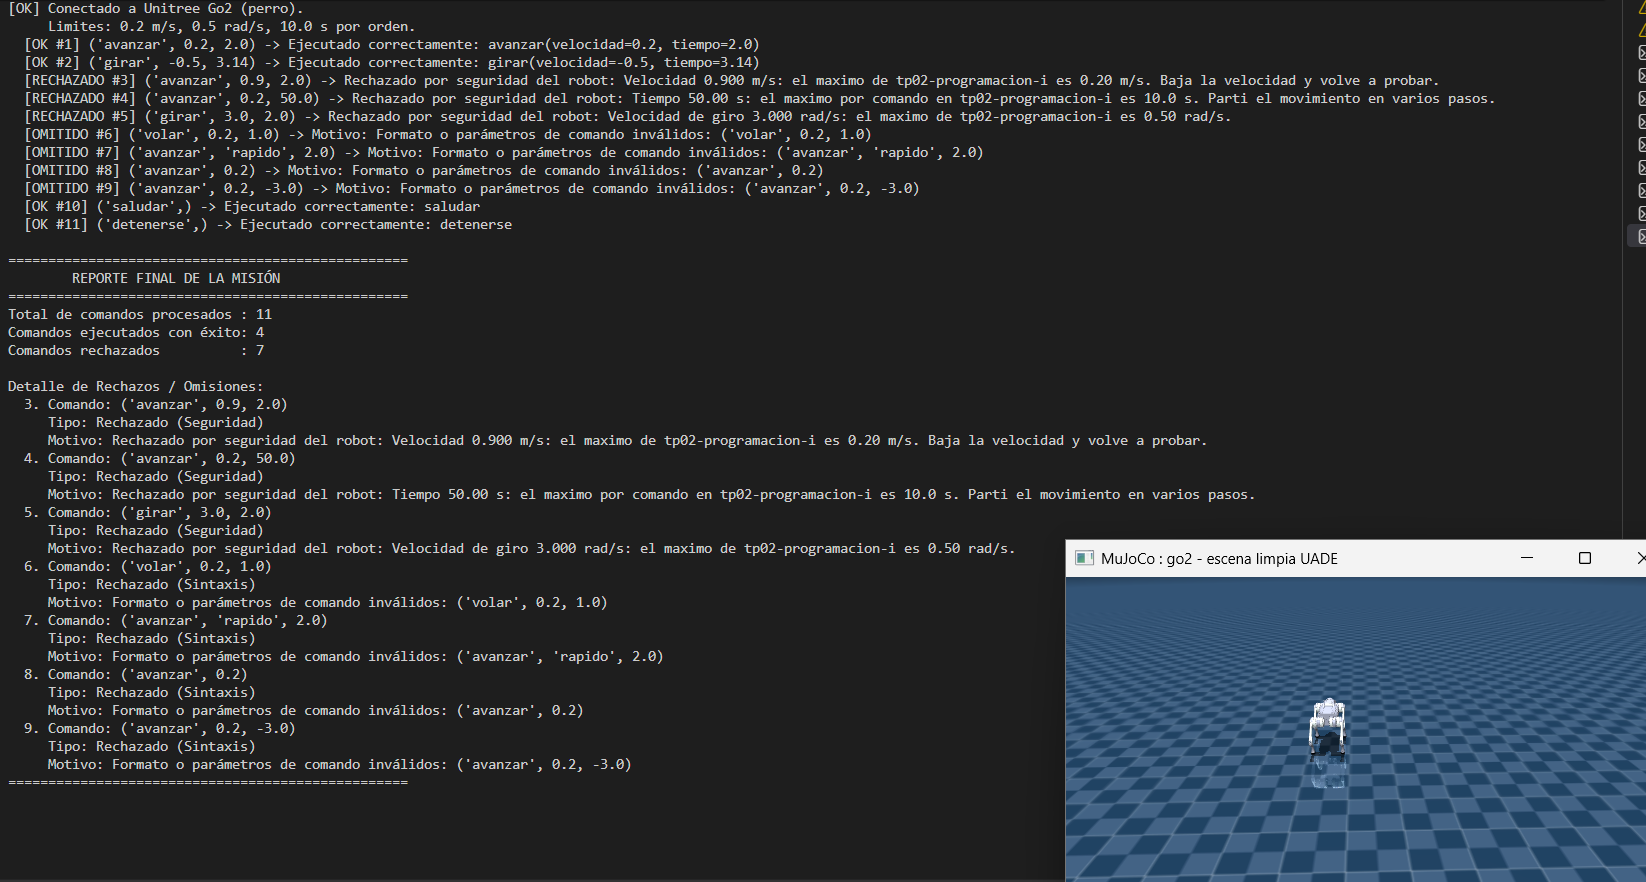
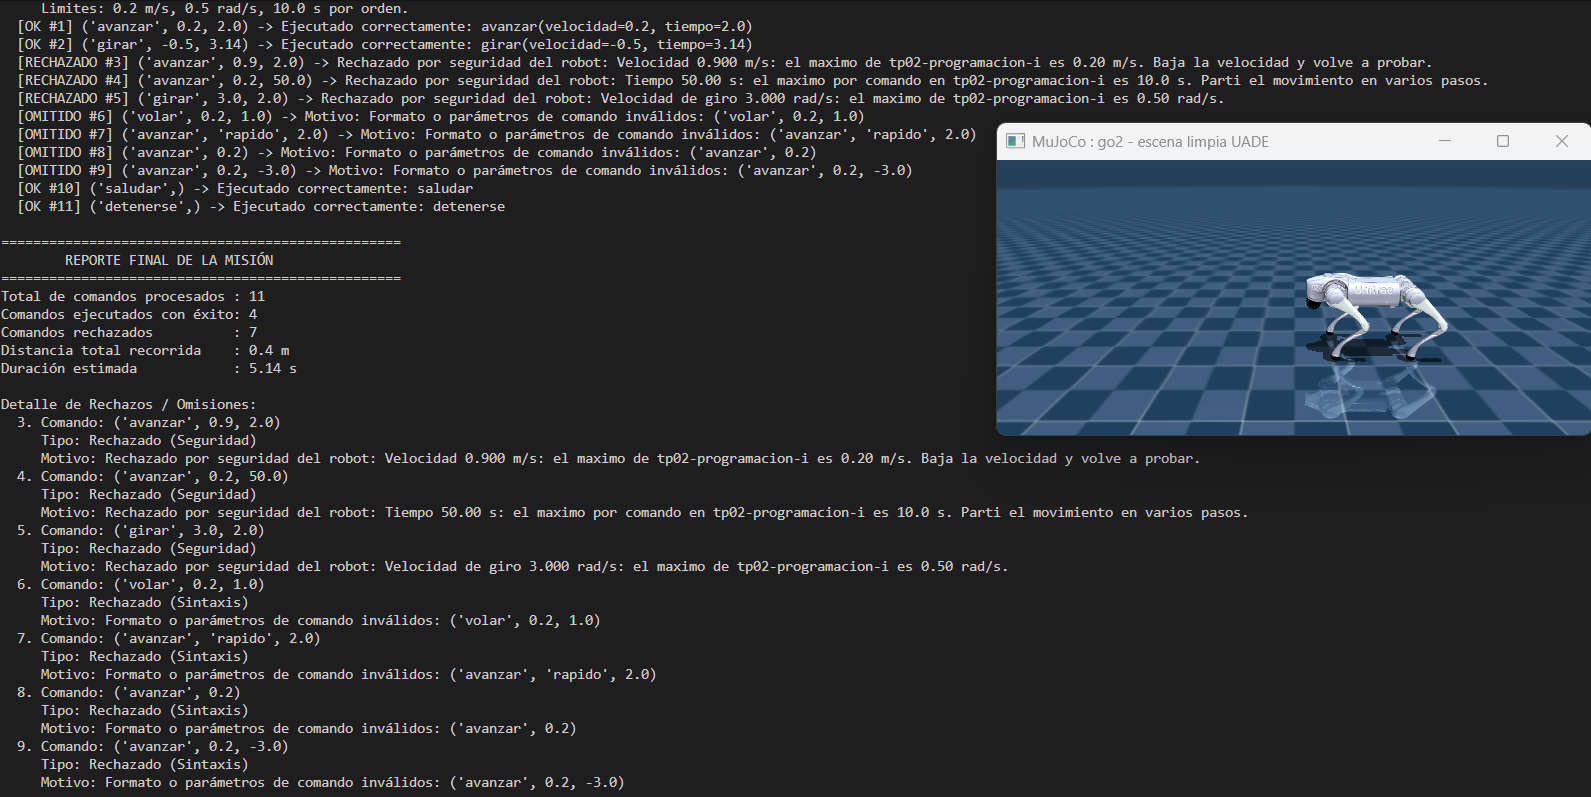
Actualizo codigo y archivos de trabajo

diff --git a/codigo/tp02_veiga_almendros.py b/codigo/tp02_veiga_almendros.py
@@ -168,12 +168,26 @@ def generar_reporte(historial):
     ejecutados = sum(1 for registro in historial if registro["estado"] == "Ejecutado")
     rechazados = len(historial) - ejecutados
 
+    distancia_total = 0.0
+    duracion_total = 0.0
+    for registro in historial:
+        if registro["estado"] != "Ejecutado":
+            continue
+        comando = registro["comando"]
+        if comando[0] == "avanzar":
+            distancia_total += abs(comando[1]) * comando[2]
+            duracion_total += comando[2]
+        elif comando[0] == "girar":
+            duracion_total += comando[2]
+
     print("\n" + "=" * 50)
     print("        REPORTE FINAL DE LA MISIÓN")
     print("=" * 50)
     print(f"Total de comandos procesados : {len(historial)}")
     print(f"Comandos ejecutados con éxito: {ejecutados}")
     print(f"Comandos rechazados          : {rechazados}")
+    print(f"Distancia total recorrida    : {round(distancia_total, 2)} m")
+    print(f"Duración estimada            : {round(duracion_total, 2)} s")
 
     if rechazados > 0:
         print("\nDetalle de Rechazos / Omisiones:")

diff --git a/BITACORA.md b/BITACORA.md
@@ -1,6 +1,24 @@
 # Bitácora de Desarrollo - TP02 Robot Unitree Go2
 
-## Etapa 1: Caracterización del Entorno
+**Integrantes:** Juan Manuel Veiga Lucien y Manuela Almendros · **Comisión:** 584524
+**Código:** `mi_tp02.py` (entregado como `tp02_veiga_almendros.py`)
+
+## Índice
+
+1. Caracterización del entorno
+2. Análisis previo de la documentación
+3. Verificación del entorno
+4. Puesta en marcha del gemelo digital
+5. Arquitectura del laboratorio
+6. Primer programa: `MISION_BASICA`
+7. `MISION_CON_ERRORES`
+8. `MISION_CUADRADO`
+9. `MISION_PROPIA`
+10. Resumen de resultados
+
+---
+
+## 1. Caracterización del entorno
 
 | Elemento | Información obtenida |
 |---|---|
@@ -19,13 +37,13 @@
 **Comandos ejecutados:**
 `systeminfo | findstr /B /C:"OS Name" /C:"OS Version" /C:"System Type"`, `py -3 --version`, `python --version`, `pip --version`, `git --version`, `py -3 -c "import mujoco; print(mujoco.__version__)"` (salida: `3.14.0`).
 
-**Evidencia:** `evidencias/01_entorno/captura_entorno.png`
+**Evidencia:** `evidencias/01_entorno/captura_entorno.png`, `evidencias/01_entorno/captura_vcredist.png`
 
 ---
 
-## Análisis previo de la documentación (sección 3 del orientador)
+## 2. Análisis previo de la documentación
 
-Fuentes leídas: `INSTALACION.md` y `LEEME_ESTUDIANTE.md` de `05LaboratoriosTPs/TP02_Programacion_I`.
+Fuentes leídas: `INSTALACION.md` y `LEEME_ESTUDIANTE.md` de `05LaboratoriosTPs/TP02_Programacion_I` (sección 3 del orientador).
 
 **a) ¿Qué herramientas necesita el TP?**
 - Python 3.10 o superior (ejecuta todo).
@@ -40,7 +58,7 @@ Python 3.10 o superior. En este equipo se usa Python 3.14.4, que cumple el requi
 Python 3.14.4, pip 26.0.1 y Git 2.55.0 ya estaban disponibles; el IDE es Visual Studio Code. MuJoCo no estaba instalado y se agregó durante el TP. Los modelos del robot vienen con la carpeta del laboratorio.
 
 **d) ¿Qué componentes del repositorio oficial de Unitree no son necesarios?**
-- El repo oficial completo (299 MB) y los otros ocho robots: el laboratorio incluye solo G1 y Go2, recortados.
+El repo oficial completo (299 MB) y los otros ocho robots: el laboratorio incluye solo G1 y Go2, recortados.
 
 **e) Diferencias entre el TP en PDF y la versión actual del repositorio**
 - Los movimientos se expresan con **velocidad y tiempo**: `robot.avanzar(velocidad, tiempo)` (m/s, s) y `robot.girar(velocidad, tiempo)` (rad/s, s). Antes se usaba distancia/velocidad y ángulo/sentido.
@@ -52,7 +70,7 @@ Python 3.14.4, pip 26.0.1 y Git 2.55.0 ya estaban disponibles; el IDE es Visual 
 
 ---
 
-## Etapa 4: Verificación del entorno
+## 3. Verificación del entorno
 
 **Comando ejecutado** (desde `TP02_Programacion_I/entorno`):
 `python -m sim --solo-revisar`
@@ -65,7 +83,7 @@ Python 3.14.4, pip 26.0.1 y Git 2.55.0 ya estaban disponibles; el IDE es Visual 
 
     Todo listo.
 
-**Resultado:** las tres verificaciones dieron `[OK]`, sin elementos faltantes. Niveles 1 a 4 alcanzados (Python reconocido, MuJoCo importado, modelos Go2 disponibles, verificación correcta).
+**Resultado:** las tres verificaciones dieron `[OK]`, sin elementos faltantes.
 
 **Incidente previo:** al intentar entrar a la carpeta del TP con `cd` fallamos por los espacios de la ruta. Ver Problema N.º 1 en `PROBLEMAS.md`.
 
@@ -73,7 +91,7 @@ Python 3.14.4, pip 26.0.1 y Git 2.55.0 ya estaban disponibles; el IDE es Visual 
 
 ---
 
-## Etapa 5: Puesta en marcha del gemelo digital
+## 4. Puesta en marcha del gemelo digital
 
 **Comando ejecutado** (desde `TP02_Programacion_I`): `.\INICIAR_SIMULADOR.bat`
 
@@ -91,15 +109,15 @@ Python 3.14.4, pip 26.0.1 y Git 2.55.0 ya estaban disponibles; el IDE es Visual 
 - Escena: `go2/scene_uade.xml`
 - Materia: `tp02-programacion-i`
 - Límites: 0.2 m/s | 0.5 rad/s | 10.0 s por orden
-- Transporte: local, `[LOCAL] Escuchando en 127.0.0.1:8765`
+- Transporte: local
 
 **Resultado:** simulador iniciado sin errores. Se abrió la ventana "MuJoCo : go2 - escena limpia UADE" y el robot Unitree Go2 quedó visible sobre el piso de la escena.
 
-**Evidencia:** `evidencias/05_gemelo_digital/`
+**Evidencia:** `evidencias/05_gemelo_digital/` (`01_seleccion_robot.png`, `02_terminal_inicio.png`, `03_ventana_mujoco.png`)
 
 ---
 
-## Arquitectura del laboratorio
+## 5. Arquitectura del laboratorio
 
     mi_tp02.py
      |
@@ -107,20 +125,21 @@ Python 3.14.4, pip 26.0.1 y Git 2.55.0 ya estaban disponibles; el IDE es Visual 
      v
     robot.py (puente: no se modifica)
      |
-     | socket local 127.0.0.1:8765
+     | 
      v
     Gemelo digital: MuJoCo + modelo Unitree Go2
 
-- **`mi_tp02.py`** contiene mi controlador: valida cada comando, lo ejecuta y arma el reporte. No sabe nada de física ni de MuJoCo; solo llama a métodos del objeto `Robot`.
+- **`mi_tp02.py`** contiene nuestro controlador: valida cada comando, lo ejecuta y arma el reporte. No sabe nada de física ni de MuJoCo; solo llama a métodos del objeto `Robot`.
 - **`robot.py`** es el puente. Traduce cada llamada (por ejemplo `avanzar(velocidad, tiempo)`) en un mensaje que envía por un socket local. Además aplica los límites de seguridad (0.2 m/s, 0.5 rad/s, 10 s) y lanza `ErrorDeSeguridad` si se superan. No se modifica.
-- **Simulador (MuJoCo + Go2):** escucha en `127.0.0.1:8765`, recibe los mensajes y mueve el modelo del robot en la ventana 3D.
+- **Simulador (MuJoCo + Go2):** recibe los mensajes y mueve el modelo del robot en la ventana 3D.
+
+**Estructura del controlador (diseño Top-Down):** `main()` llama a `ejecutar_mision()` y `generar_reporte()`; `ejecutar_mision()` llama, por cada comando, a `comando_es_valido()` y `ejecutar_comando()`.
 
 ---
 
-## Etapa 6: Primer programa contra el gemelo digital
+## 6. Primer programa: `MISION_BASICA`
 
-**Comando ejecutado** 
-`python mi_desarrollo/mi_tp02.py`
+**Comando ejecutado:** `python mi_desarrollo/mi_tp02.py`
 
 **Salida obtenida:**
 
@@ -130,49 +149,54 @@ Python 3.14.4, pip 26.0.1 y Git 2.55.0 ya estaban disponibles; el IDE es Visual 
       [OK #2] ('girar', -0.5, 3.14) -> Ejecutado correctamente
       [OK #3] ('avanzar', 0.2, 2.0) -> Ejecutado correctamente
       [OK #4] ('detenerse',) -> Ejecutado correctamente
+
     Total de comandos procesados : 4
     Comandos ejecutados con éxito: 4
     Comandos rechazados          : 0
+    Distancia total recorrida    : 0.8 m
+    Duración estimada            : 7.14 s
+
     [OK] Desconectado.
 
 **Movimiento observado:** el Go2 avanzó, giró a la derecha y volvió a avanzar, quedando desplazado y rotado respecto de su posición inicial en la ventana de MuJoCo.
 
-**Resultado:** conexión correcta, `MISION_BASICA` ejecutada sin rechazos y reporte generado.
+**Resultado:** conexión correcta, `MISION_BASICA` ejecutada sin rechazos y reporte generado. 4 ejecutados, 0 rechazados.
 
 **Evidencia:** `evidencias/06_misiones/01_mision_basica.png`
 
 ---
 
-## Etapa 7: MISION_CON_ERRORES
+## 7. `MISION_CON_ERRORES`
 
 **Misión:** `MISION_CON_ERRORES` (11 comandos), con el simulador abierto.
 
 **Resultado:**
-- 4 ejecutados: #1, #2, #10, #11.
-- 3 rechazados por seguridad del robot (`ErrorDeSeguridad`): #3 (0.9 m/s), #4 (50 s), #5 (3.0 rad/s).
-- 4 omitidos por validación previa: #6 (comando `volar`), #7 (velocidad no numérica), #8 (falta el tiempo), #9 (tiempo negativo).
+- **4 ejecutados:** #1, #2, #10, #11.
+- **3 rechazados por seguridad del robot** (`ErrorDeSeguridad`): #3 (0.9 m/s), #4 (50 s), #5 (3.0 rad/s).
+- **4 omitidos por validación previa (sintaxis):** #6 (comando `volar`), #7 (velocidad no numérica), #8 (falta el tiempo), #9 (tiempo negativo).
+- **Distancia total recorrida:** 0.4 m. **Duración estimada:** 5.14 s.
 
-**Verificación:** el programa detectó, rechazó, registró y continuó con el resto de la misión. El reporte final se generó. Nivel 9 alcanzado.
+**Verificación:** el programa detectó, rechazó, registró y continuó con el resto de la misión. El reporte final se generó.
 
 **Evidencia:** `evidencias/06_misiones/02_mision_con_errores.png`
 
 ---
 
-## Etapa 8: MISION_CUADRADO
+## 8. `MISION_CUADRADO`
 
 **Misión:** `MISION_CUADRADO` (9 comandos): 4 veces `avanzar(0.2 m/s, 2.0 s)` y `girar(-0.5 rad/s, 3.14 s)`, más `detenerse`.
 
 **Cálculo:** cada lado recorre 0.2 × 2.0 = 0.4 m; cada giro es 0.5 × 3.14 ≈ 1.57 rad (90° a la derecha). Cuatro giros suman 360°.
 
-**Resultado:** 9 ejecutados, 0 rechazados. Reporte final generado.
+**Resultado:** 9 ejecutados, 0 rechazados. Distancia total recorrida: 1.6 m (4 × 0.4 m). Duración estimada: 20.56 s. Reporte final generado.
 
-**Observación:** el Go2 terminó en la zona de partida, con la orientación original (de frente a la cámara), consistente con un recorrido cuadrado cerrado.
+**Observación:** el Go2 terminó en la zona de partida, con la orientación original, consistente con un recorrido cuadrado cerrado.
 
 **Evidencia:** `evidencias/06_misiones/03_mision_cuadrado.png`
 
 ---
 
-## Etapa 9: MISION_PROPIA
+## 9. `MISION_PROPIA`
 
 **Misión:** `MISION_PROPIA` (10 comandos), diseñada por nosotros. Es un zigzag con desvío lateral que incluye 3 comandos inválidos a propósito:
 
@@ -189,11 +213,21 @@ Python 3.14.4, pip 26.0.1 y Git 2.55.0 ya estaban disponibles; el IDE es Visual 
 | 9 | `saludar` | válido | saluda |
 | 10 | `detenerse` | válido | frena |
 
-**Diseño:** el robot se aparta del rumbo original hacia la derecha, avanza el tramo más largo, se endereza y termina avanzando y saludando. Los comandos válidos respetan los límites (≤ 0.2 m/s, ≤ 0.5 rad/s, ≤ 10 s). Los inválidos cubren los dos tipos de rechazo: validación previa y `ErrorDeSeguridad`.
+**Diseño:** el robot se aparta del rumbo original hacia la derecha, avanza el tramo más largo, se endereza y termina avanzando y saludando. Los comandos válidos respetan los límites (≤ 0.2 m/s, ≤ 0.5 rad/s, ≤ 10 s). Los inválidos cubren los dos tipos de rechazo: validación previa (#3 y #8) y `ErrorDeSeguridad` (#6).
 
-**Resultado (COMPLETAR con lo que muestre la captura):** 7 ejecutados, 3 rechazados. Reporte final generado.
+**Resultado:** 7 ejecutados y 3 rechazados (2 por sintaxis y 1 por seguridad). Distancia total recorrida: 1.2 m (0.30 + 0.60 + 0.30). Duración estimada: 10.14 s. Reporte final generado.
 
-**Observación:** en la ventana, el Go2 quedó desplazado respecto de su posición inicial. No se midió la distancia exacta.
+**Observación:** en la ventana, el Go2 quedó desplazado respecto de su posición inicial.
 
 **Evidencia:** `evidencias/06_misiones/04_mision_propia.png`
 
+---
+
+## 10. Resumen de resultados
+
+| Misión | Comandos | Ejecutados | Rechazados (sintaxis / seguridad) | Distancia | Duración |
+|---|---|---|---|---|---|
+| `MISION_BASICA` | 4 | 4 | 0 (0 / 0) | 0.8 m | 7.14 s |
+| `MISION_CON_ERRORES` | 11 | 4 | 7 (4 / 3) | 0.4 m | 5.14 s |
+| `MISION_CUADRADO` | 9 | 9 | 0 (0 / 0) | 1.6 m | 20.56 s |
+| `MISION_PROPIA` | 10 | 7 | 3 (2 / 1) | 1.2 m | 10.14 s |

diff --git a/CONCLUSIONES.md b/CONCLUSIONES.md
@@ -16,7 +16,7 @@ El error del `cd`. El mensaje no decía que la carpeta no existiera, por lo que 
 Encerrar la ruta entre comillas dobles. Las comillas indican a PowerShell que toda la ruta es un único argumento. Después de aplicarla se pudo ejecutar la verificación y el simulador.
 
 **d) ¿Qué intento no funcionó y qué aprendieron de él?**
-El `cd` sin comillas. Aprendimos que en PowerShell las rutas con espacios deben ir entre comillas y que conviene evitar espacios en los nombres de carpetas de proyectos. También decidí no modificar los motivos de rechazo por sintaxis, que quedaron genéricos: aprendí a distinguir entre algo que funciona y algo que se puede explicar mejor.
+El `cd` sin comillas. Aprendimos que en PowerShell las rutas con espacios deben ir entre comillas y que conviene evitar espacios en los nombres de carpetas de proyectos. También decidimos no modificar los motivos de rechazo por sintaxis, que quedaron genéricos: aprendí a distinguir entre algo que funciona y algo que se puede explicar mejor.
 
 **e) ¿Qué diferencia encontraron entre una guía antigua y la arquitectura actual?**
 Las guías anteriores usaban distancia/velocidad y ángulo/sentido, y requerían CycloneDDS y el SDK oficial de Unitree. La versión actual usa velocidad y tiempo (distancia = velocidad × tiempo; ángulo = velocidad × tiempo, con el signo indicando el sentido) y se comunica con MuJoCo por un socket local en `127.0.0.1:8765` a través de `robot.py`. Así deja de depender de componentes que fallaban en Windows y macOS, y el código del alumno no cambia.
